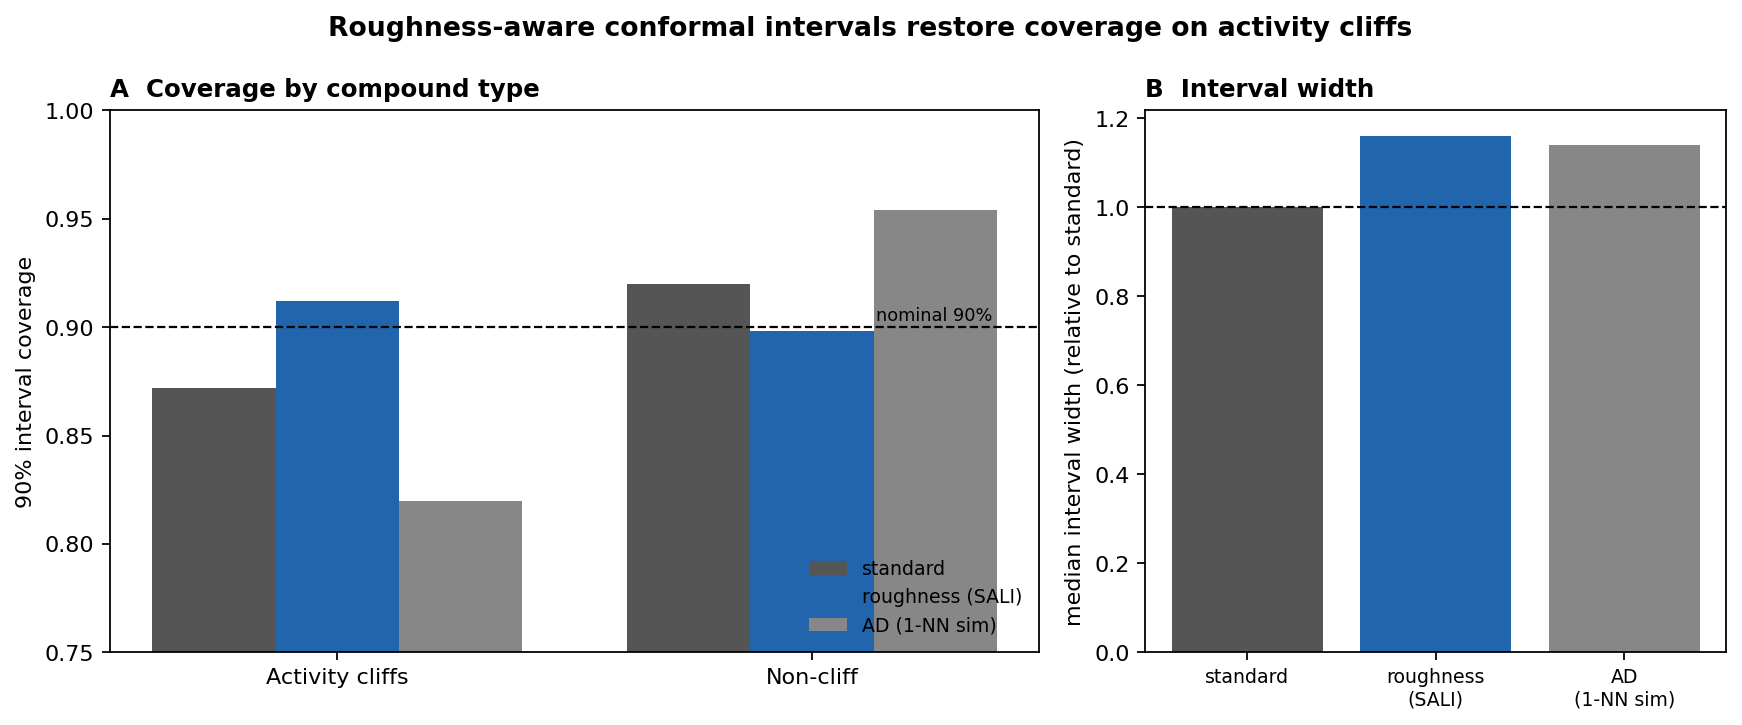
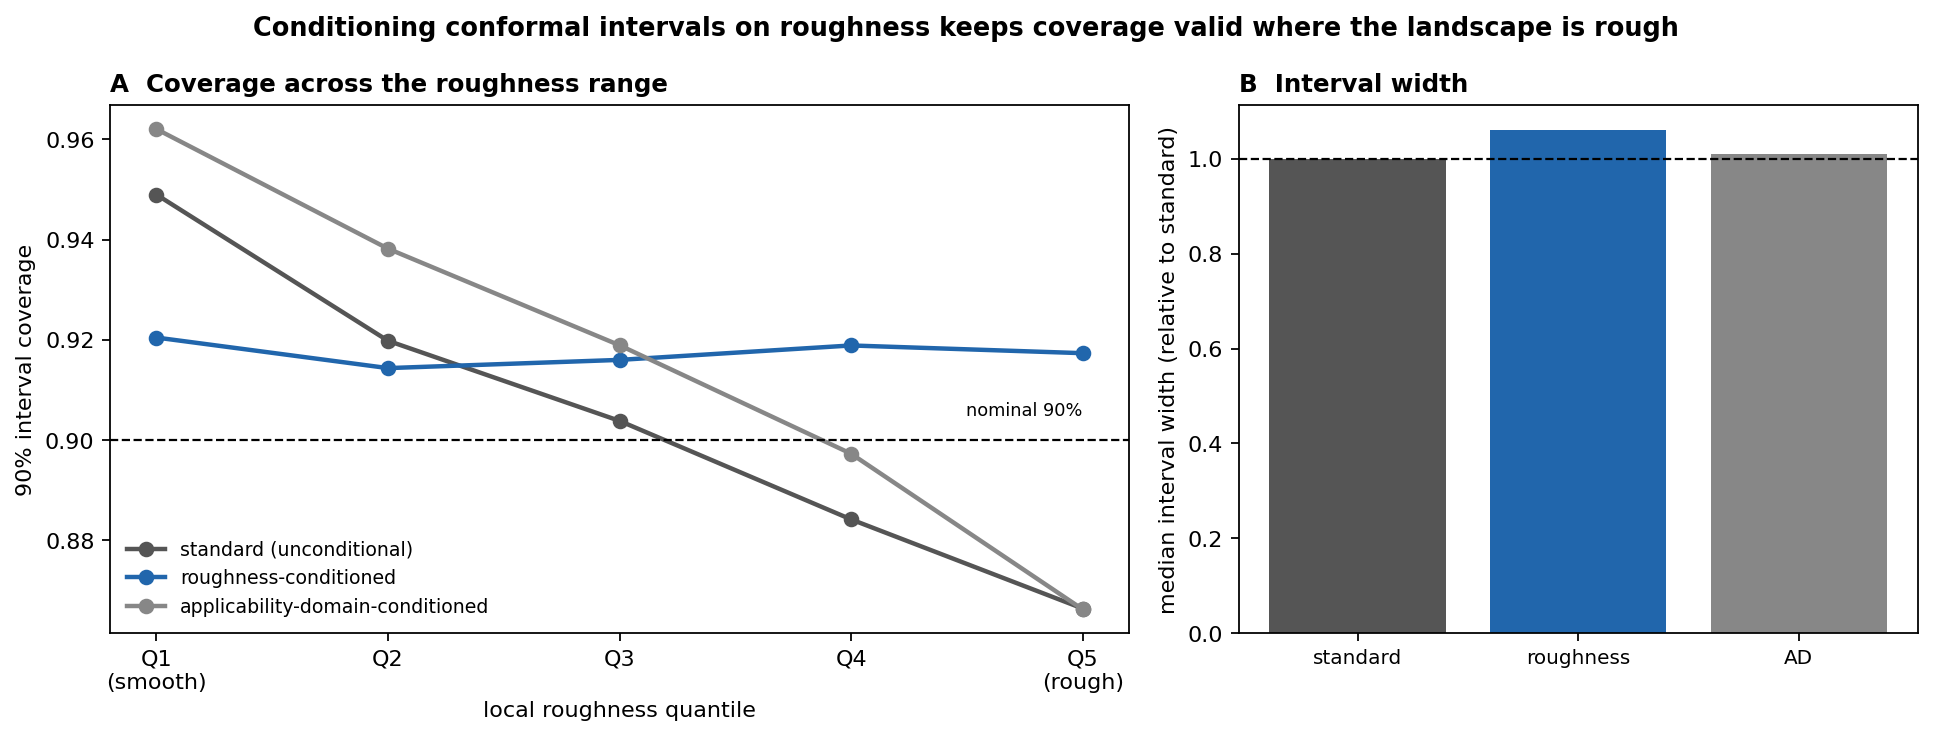
Conformal: cite the inductive/normalized/Mondrian line, add roughness-conditioned coverage curve; reproducibility package
Manuscript / conformal section:
- Reframe to 'roughness is the right per-compound variable to condition on,' not
  'we normalize conformal intervals.' Cite Papadopoulos (inductive + normalized
  nonconformity) and Bostrom & Johansson (Mondrian conformal regressors).
- Reorder to lead with the thesis-confirming number: AD conditioning moves coverage
  the wrong way (cliffs to 82.0%); standard under-coverage is now the setup.
- Add a roughness-conditioned coverage curve (Figure 6A): standard coverage declines
  with roughness (0.95 -> 0.87), roughness-Mondrian holds it flat within ~2 pts of
  nominal across all quintiles, AD-Mondrian declines further. Shows the fix
  generalizes beyond the binary cliff subset and delivers the Mondrian idea.
- conformal.py now computes standard / locally-weighted / Mondrian variants and the
  coverage curve (conformal_results.csv, conformal_curve.csv, Figure 6).

Style pass: documentclass letterpaper (US Letter, explicit); abstract numbers checked
against results; new references in ACS format; no em-dashes.

Reproducibility (reviewer-grade): pinned requirements.txt + environment.yml, a single
reproduce.sh entry point, one script per figure, fixed the README robustness command
(per-metric, not 'all'). Data Availability cites a v1.0.0 Zenodo snapshot (DOI
placeholder) and reproduce.sh; CITATION.cff versioned to 1.0.0.

diff --git a/src/conformal.py b/src/conformal.py
@@ -1,20 +1,24 @@
 """
-conformal.py -- roughness-aware (cliff-aware) conformal prediction intervals.
+conformal.py -- roughness-conditioned conformal prediction intervals.
 
-Split-conformal regression on the held-out per-compound residuals. For each target
-the test compounds are split 50/50 into a calibration and an evaluation set; 90%
-prediction intervals are built three ways and scored for marginal, activity-cliff,
-and non-cliff coverage, plus interval width:
+The question is not how to normalize a conformal predictor but which per-compound
+variable to condition it on. Split-conformal regression gives a marginal coverage
+guarantee; locally-weighted (normalized) and Mondrian variants make coverage
+conditional on a per-compound difficulty estimate but leave the choice of estimate
+open. We show the activity-free roughness (the pairwise-SALI density) is that estimate.
 
-  standard          nonconformity = |residual|              -> constant-width intervals
-  roughness (SALI)  nonconformity = |residual| / sigma(x)   -> sigma = activity-free SALI density
-  AD (1 - NN sim)   nonconformity = |residual| / sigma(x)   -> sigma = applicability-domain risk
-
-Both sigma choices are activity-free, so the predictor is deployable before assay.
-Averaged over 50 random calibration/evaluation splits and reported as the median
-across the 30 targets. Reads results/all_per_compound.csv (rf_err = |pred - y| plus
-the roughness / AD columns); writes results/conformal_results.csv and
-paper/figures/figure6_conformal.png.
+For each target the test compounds are split 50/50 into calibration and evaluation,
+and 90% intervals are built five ways from the held-out residuals:
+  standard        constant width (global conformal quantile)
+  rough-norm      locally-weighted: width scaled by sigma = SALI density
+  AD-norm         locally-weighted: width scaled by sigma = applicability-domain risk
+  rough-Mondrian  stratify calibration into SALI-density quintiles, calibrate within
+  AD-Mondrian     stratify calibration into applicability-domain quintiles, calibrate within
+Both conditioning variables are activity-free (available before assay). We report
+marginal, activity-cliff, and non-cliff coverage, interval width, and coverage as a
+function of roughness quantile, averaged over 50 splits and aggregated as the median
+across the 30 targets. Reads results/all_per_compound.csv; writes
+results/conformal_results.csv, results/conformal_curve.csv, paper/figures/figure6_conformal.png.
 """
 import os, sys
 sys.path.insert(0, os.path.dirname(os.path.abspath(__file__)))
@@ -22,98 +26,114 @@ from config import RESULTS_DIR, FIGURES_DIR
 import numpy as np, pandas as pd
 import matplotlib; matplotlib.use("Agg"); import matplotlib.pyplot as plt
 
-ALPHA = 0.10   # 90% prediction intervals
+ALPHA = 0.10      # 90% intervals
 REPS  = 50
+NB    = 5         # roughness/AD strata and curve quantiles
 df = pd.read_csv(os.path.join(RESULTS_DIR, "all_per_compound.csv"))
+CURVE_METHODS = ["standard", "rough-Mondrian", "AD-Mondrian"]
 
-METHODS = [("standard", None, 1),
-           ("roughness (SALI)", "sali_mean", 1),
-           ("AD (1-NN sim)", "nn_sim", -1)]
+def cq(scores, alpha):
+    s = np.sort(scores); n = len(s)
+    if n == 0: return np.inf
+    k = min(int(np.ceil((n + 1) * (1 - alpha))), n)
+    return s[k - 1]
 
-def conformal_q(scores, alpha):
-    n = len(scores); k = min(int(np.ceil((n + 1) * (1 - alpha))), n)
-    return np.sort(scores)[k - 1]
+def cleanv(g, col, sign):
+    v = sign * g[col].values.astype(float)
+    return np.where(np.isfinite(v), v, np.nanmedian(v))
 
-def sigma_for(g, col, sign):
-    """Per-compound nonconformity scale (>0). sign flips AD so higher = riskier."""
-    if col is None:
-        return np.ones(len(g))
-    s = sign * g[col].values.astype(float)
-    s = np.where(np.isfinite(s), s, np.nanmedian(s))
-    s = s - np.nanmin(s)
-    return s + 0.1 * (np.nanmedian(s) + 1e-9)   # floor keeps widths well-defined
+def inner_quantile_bins(v_cal, v_pts, nb):
+    thr = np.quantile(v_cal, np.linspace(0, 1, nb + 1)[1:-1])
+    return np.minimum(np.digitize(v_pts, thr), nb - 1)
 
-def evaluate():
-    rec = {name: [] for name, _, _ in METHODS}
-    for rep in range(REPS):
-        rng = np.random.RandomState(rep)
-        for ds, g in df.groupby("dataset"):
-            g = g.reset_index(drop=True)
-            resid = g["rf_err"].values
-            cliff = g["cliff_mol"].values.astype(bool)
-            idx = rng.permutation(len(g)); h = len(g) // 2
-            cal, ev = idx[:h], idx[h:]
-            if len(cal) < 10 or len(ev) < 10:
-                continue
-            wstd = None
-            for name, col, sign in METHODS:                 # standard is first -> wstd set
-                sig = sigma_for(g, col, sign)
-                q = conformal_q(resid[cal] / sig[cal], ALPHA)
-                hw = q * sig[ev]
-                cov = resid[ev] <= hw
-                w = 2 * hw
-                ce = cliff[ev]
-                if name == "standard":
-                    wstd = w
-                rec[name].append(dict(
-                    dataset=ds,
-                    cov=cov.mean(),
-                    cov_cliff=cov[ce].mean() if ce.sum() >= 5 else np.nan,
-                    cov_noncliff=cov[~ce].mean() if (~ce).sum() >= 5 else np.nan,
-                    relwidth=np.median(w) / np.median(wstd)))
-    std_cliff = pd.DataFrame(rec["standard"]).groupby("dataset")["cov_cliff"].mean()
-    out = []
-    for name, _, _ in METHODS:
-        t = pd.DataFrame(rec[name]).groupby("dataset").mean(numeric_only=True)
-        out.append(dict(
-            method=name,
-            marginal_cov=round(float(t["cov"].median()), 3),
-            cliff_cov=round(float(t["cov_cliff"].median()), 3),
-            noncliff_cov=round(float(t["cov_noncliff"].median()), 3),
-            median_rel_width=round(float(t["relwidth"].median()), 2),
-            frac_targets_cliff_improved=round(float((t["cov_cliff"] > std_cliff).mean()), 2)))
-    return pd.DataFrame(out)
+rows, curve_rows = [], []
+for rep in range(REPS):
+    rng = np.random.RandomState(rep)
+    for ds, g in df.groupby("dataset"):
+        g = g.reset_index(drop=True)
+        resid = g["rf_err"].values
+        cliff = g["cliff_mol"].values.astype(bool)
+        idx = rng.permutation(len(g)); h = len(g) // 2
+        cal, ev = idx[:h], idx[h:]
+        if len(cal) < NB * 8 or len(ev) < NB * 8:
+            continue
+        rough = cleanv(g, "sali_mean", 1)
+        ad = cleanv(g, "nn_sim", -1)
+        ev_rbin = inner_quantile_bins(rough[ev], rough[ev], NB)   # roughness quintile of each eval point
 
-res = evaluate()
-res.to_csv(os.path.join(RESULTS_DIR, "conformal_results.csv"), index=False)
-print(res.to_string(index=False))
+        methods = {}
+        qg = cq(resid[cal], ALPHA)
+        methods["standard"] = (resid[ev] <= qg, np.full(len(ev), 2 * qg))
+        for nm, col, sign in [("rough-norm", "sali_mean", 1), ("AD-norm", "nn_sim", -1)]:
+            s = cleanv(g, col, sign); s = s - np.nanmin(s)
+            sig = s + 0.1 * (np.nanmedian(s) + 1e-9)
+            qn = cq(resid[cal] / sig[cal], ALPHA)
+            methods[nm] = (resid[ev] <= qn * sig[ev], 2 * qn * sig[ev])
+        for nm, var in [("rough-Mondrian", rough), ("AD-Mondrian", ad)]:
+            cb = inner_quantile_bins(var[cal], var[cal], NB)
+            eb = inner_quantile_bins(var[cal], var[ev], NB)
+            qb = {b: cq(resid[cal][cb == b], ALPHA) for b in range(NB)}
+            hw = np.array([qb[b] for b in eb])
+            methods[nm] = (resid[ev] <= hw, 2 * hw)
+
+        wstd = methods["standard"][1]
+        for nm, (cov, w) in methods.items():
+            rows.append(dict(method=nm, dataset=ds, marginal=cov.mean(),
+                cliff=cov[cliff[ev]].mean() if cliff[ev].sum() >= 5 else np.nan,
+                noncliff=cov[~cliff[ev]].mean() if (~cliff[ev]).sum() >= 5 else np.nan,
+                relwidth=np.median(w) / np.median(wstd)))
+            if nm in CURVE_METHODS:
+                for b in range(NB):
+                    mm = ev_rbin == b
+                    if mm.sum() > 0:
+                        curve_rows.append(dict(method=nm, dataset=ds, qbin=b, cov=cov[mm].mean()))
+
+R = pd.DataFrame(rows)
+per = R.groupby(["method", "dataset"]).mean(numeric_only=True).reset_index()
+std_cliff = per[per.method == "standard"].set_index("dataset")["cliff"]
+ORDER = ["standard", "rough-norm", "AD-norm", "rough-Mondrian", "AD-Mondrian"]
+summary = []
+for m in ORDER:
+    t = per[per.method == m].set_index("dataset")
+    summary.append(dict(method=m,
+        marginal_cov=round(float(t["marginal"].median()), 3),
+        cliff_cov=round(float(t["cliff"].median()), 3),
+        noncliff_cov=round(float(t["noncliff"].median()), 3),
+        median_rel_width=round(float(t["relwidth"].median()), 2),
+        frac_targets_cliff_improved=round(float((t["cliff"] > std_cliff).mean()), 2)))
+summary = pd.DataFrame(summary)
+summary.to_csv(os.path.join(RESULTS_DIR, "conformal_results.csv"), index=False)
+print(summary.to_string(index=False))
+
+C = pd.DataFrame(curve_rows).groupby(["method", "qbin"])["cov"].mean().reset_index()
+C.to_csv(os.path.join(RESULTS_DIR, "conformal_curve.csv"), index=False)
 
 # ---- figure ----
-COL = {"standard": "#555555", "roughness (SALI)": "#2166ac", "AD (1-NN sim)": "#878787"}
-methods = res.method.tolist()
-fig, ax = plt.subplots(1, 2, figsize=(11, 4.6), gridspec_kw={"width_ratios": [1.6, 1]})
+COL = {"standard": "#555555", "rough-Mondrian": "#2166ac", "AD-Mondrian": "#878787"}
+LAB = {"standard": "standard (unconditional)", "rough-Mondrian": "roughness-conditioned",
+       "AD-Mondrian": "applicability-domain-conditioned"}
+fig, ax = plt.subplots(1, 2, figsize=(12.2, 4.7), gridspec_kw={"width_ratios": [1.5, 1]})
 
-xg = np.arange(2); w = 0.26
-for i, m in enumerate(methods):
-    r = res[res.method == m].iloc[0]
-    ax[0].bar(xg + (i - 1) * w, [r["cliff_cov"], r["noncliff_cov"]], w, color=COL[m], label=m)
-ax[0].axhline(0.90, ls="--", color="k", lw=1)
-ax[0].text(1.38, 0.903, "nominal 90%", fontsize=8, ha="right")
-ax[0].set_xticks(xg); ax[0].set_xticklabels(["Activity cliffs", "Non-cliff"])
-ax[0].set_ylim(0.75, 1.0); ax[0].set_ylabel("90% interval coverage")
-ax[0].set_title("A  Coverage by compound type", loc="left", weight="bold", fontsize=11)
-ax[0].legend(frameon=False, fontsize=8.5, loc="lower right")
+xq = np.arange(NB)
+for m in CURVE_METHODS:
+    y = [C[(C.method == m) & (C.qbin == b)]["cov"].iloc[0] for b in range(NB)]
+    ax[0].plot(xq, y, "-o", color=COL[m], label=LAB[m], lw=2, ms=6)
+ax[0].axhline(0.90, ls="--", color="k", lw=1); ax[0].text(NB - 1, 0.905, "nominal 90%", fontsize=8, ha="right")
+ax[0].set_xticks(xq); ax[0].set_xticklabels(["Q1\n(smooth)", "Q2", "Q3", "Q4", "Q5\n(rough)"])
+ax[0].set_xlabel("local roughness quantile"); ax[0].set_ylabel("90% interval coverage")
+ax[0].set_title("A  Coverage across the roughness range", loc="left", weight="bold", fontsize=11)
+ax[0].legend(frameon=False, fontsize=8.5, loc="lower left")
 
-ax[1].bar(range(len(methods)), [res[res.method == m].iloc[0]["median_rel_width"] for m in methods],
-          color=[COL[m] for m in methods])
+wm = ["standard", "rough-Mondrian", "AD-Mondrian"]
+ax[1].bar(range(len(wm)), [summary[summary.method == m]["median_rel_width"].iloc[0] for m in wm],
+          color=[COL[m] for m in wm])
 ax[1].axhline(1.0, ls="--", color="k", lw=1)
-ax[1].set_xticks(range(len(methods)))
-ax[1].set_xticklabels(["standard", "roughness\n(SALI)", "AD\n(1-NN sim)"], fontsize=8.5)
+ax[1].set_xticks(range(len(wm))); ax[1].set_xticklabels(["standard", "roughness", "AD"], fontsize=9)
 ax[1].set_ylabel("median interval width (relative to standard)")
 ax[1].set_title("B  Interval width", loc="left", weight="bold", fontsize=11)
 
-fig.suptitle("Roughness-aware conformal intervals restore coverage on activity cliffs",
-             weight="bold", fontsize=12)
+fig.suptitle("Conditioning conformal intervals on roughness keeps coverage valid where the landscape is rough",
+             weight="bold", fontsize=11.5)
 plt.tight_layout()
 plt.savefig(os.path.join(FIGURES_DIR, "figure6_conformal.png"), dpi=160, bbox_inches="tight")
-print("figure6_conformal.png saved")
+print("figure6_conformal.png + conformal_curve.csv saved")

diff --git a/paper/main.tex b/paper/main.tex
@@ -1,4 +1,4 @@
-\documentclass[12pt]{article}
+\documentclass[12pt,letterpaper]{article}
 
 % Minimal package set: each supports content (equations, figures, citations,
 % the data-availability URL); geometry only sets page margins.
@@ -25,7 +25,7 @@
 \vspace{1em}
 
 \begin{center}\textbf{Abstract}\end{center}
-\noindent Machine-learning models of molecular potency fail systematically on activity cliffs, structurally similar molecules with large potency differences, yet give no warning when a prediction lands on one. The reliability tools in common use look the wrong way: applicability-domain and uncertainty methods flag extrapolation into sparse chemical space, but cliffs sit among close analogs, in the dense regions those methods treat as safe. We ask whether the error a model makes on a specific compound can instead be anticipated from the local roughness of the structure--activity landscape, measured from structure alone. On thirty bioactivity benchmarks, activity-free descriptors computable before any assay predict per-compound random-forest error on every target: neighborhood activity dispersion most strongly (median Spearman 0.28), while the pairwise density of the Structure--Activity Landscape Index flags labeled cliffs with a median area under the receiver-operating-characteristic curve of 0.69, and nearest-neighbor similarity, the basis of the applicability domain, points the opposite way. The signal survives control for the applicability domain in partial-correlation and mixed-effects analyses, so it is a distinct axis of reliability, not a proxy for data sparsity. The effects are modest but uniformly consistent, hold across three model classes and distance metrics, and replicate on solubility and lipophilicity benchmarks outside bioactivity. Embedded as the nonconformity scale of a conformal predictor, the descriptor restores 90\% interval coverage on cliffs that standard intervals silently lose. A measure that uses the query's own activity tracks error more strongly (median Spearman 0.65) but is a mechanistic upper bound, not a usable signal, since it needs the very potency being predicted. The result is a model-agnostic, structure-only estimate of where a quantitative structure--activity relationship (QSAR) prediction should and should not be trusted.
+\noindent Machine-learning models of molecular potency fail systematically on activity cliffs, structurally similar molecules with large potency differences, yet give no warning when a prediction lands on one. The reliability tools in common use look the wrong way: applicability-domain and uncertainty methods flag extrapolation into sparse chemical space, but cliffs sit among close analogs, in the dense regions those methods treat as safe. We ask whether the error a model makes on a specific compound can instead be anticipated from the local roughness of the structure--activity landscape, measured from structure alone. On thirty bioactivity benchmarks, activity-free descriptors computable before any assay predict per-compound random-forest error on every target: neighborhood activity dispersion most strongly (median Spearman 0.28), while the pairwise density of the Structure--Activity Landscape Index flags labeled cliffs with a median area under the receiver-operating-characteristic curve of 0.69, and nearest-neighbor similarity, the basis of the applicability domain, points the opposite way. The signal survives control for the applicability domain in partial-correlation and mixed-effects analyses, so it is a distinct axis of reliability, not a proxy for data sparsity. The effects are modest but uniformly consistent, hold across three model classes and distance metrics, and replicate on solubility and lipophilicity benchmarks outside bioactivity. Conditioning a conformal predictor on this roughness, rather than on the applicability domain, holds 90\% interval coverage flat across the roughness range and restores it on activity cliffs, where unconditional intervals silently under-cover. A measure that uses the query's own activity tracks error more strongly (median Spearman 0.65) but is a mechanistic upper bound, not a usable signal, since it needs the very potency being predicted. The result is a model-agnostic, structure-only estimate of where a quantitative structure--activity relationship (QSAR) prediction should and should not be trusted.
 
 \section*{Keywords}
 activity cliffs; QSAR; structure--activity landscape; applicability domain; uncertainty quantification; machine-learning reliability
@@ -96,7 +96,7 @@ The graph model was a Graph Isomorphism Network (GIN\cite{xu2019}) implemented i
 
 The primary analysis quantified, for each target, the Spearman rank correlation between a descriptor and the per-compound random-forest error, then aggregated the 30 coefficients as the median and interquartile range, reporting the fraction of targets with the expected sign and a two-sided Wilcoxon signed-rank test of the coefficients against zero; $p$ values across descriptors were adjusted by the Benjamini--Hochberg false-discovery-rate (FDR) procedure.\cite{benjamini1995} To test whether roughness is distinguishable from the applicability domain, partial Spearman correlations were computed per target by rank-transforming the descriptor, the error, and the control variables (nearest-neighbor similarity and local density), residualizing the descriptor and the error on the controls by ordinary least squares, and correlating the residuals; the resulting coefficients were aggregated as above. As a confound-controlled confirmation, a linear mixed-effects model (statsmodels) regressed within-target standardized error on within-target standardized roughness, with nearest-neighbor similarity, local density, and heavy-atom count as fixed-effect covariates and a per-target random intercept. The ability of a priori descriptors to flag benchmark-labeled cliffs was assessed by the per-target area under the receiver-operating-characteristic curve (AUC), aggregated as the median and range. All correlation and classification analyses were repeated for $k \in \{5, 10, 15, 20, 30\}$ and for the three distance metrics described above to assess robustness. Operational utility was assessed by an enrichment analysis: within each target, compounds were ranked by a risk score (local roughness; the negative nearest-neighbor similarity, representing the applicability domain in its standard orientation; or the random-forest tree variance, representing uncertainty), and the fraction of positives captured within the top $f\%$ was computed and averaged across targets, with positives defined either as top-quartile-error compounds or as labeled activity cliffs.
 
-To test whether the descriptors yield calibrated prediction intervals, we built split-conformal\cite{norinder2014} 90\% intervals from the held-out per-compound residuals. Within each target the test compounds were partitioned at random into equal calibration and evaluation halves; the nonconformity score was the absolute residual $|\hat{y}_i - y_i|$ for standard conformal prediction, or $|\hat{y}_i - y_i| / \sigma(x_i)$ for a normalized variant whose per-compound scale $\sigma$ was taken from an activity-free roughness (the pairwise-SALI density) or, for comparison, from the applicability domain ($1 - s_{\mathrm{NN}}$). The interval half-width is the rank-$\lceil (n+1)(1-\alpha) \rceil$ calibration score times $\sigma(x_i)$, which retains the finite-sample marginal coverage guarantee at $1 - \alpha = 0.9$ for any $\sigma$. We report marginal coverage, coverage restricted to labeled activity cliffs, and interval width, averaged over 50 random calibration/evaluation splits and aggregated as the median across targets.
+To test whether the descriptors translate into calibrated prediction intervals, we built inductive (split) conformal\cite{norinder2014,papadopoulos2002} 90\% intervals from the held-out per-compound residuals, asking not how to normalize a conformal predictor but which per-compound variable it should be conditioned on. Within each target the test compounds were split at random into equal calibration and evaluation halves. We compared an unconditional predictor (nonconformity score $|\hat{y}_i - y_i|$, constant-width intervals) against two standard ways of making coverage conditional on a per-compound difficulty estimate: a locally-weighted (normalized) score $|\hat{y}_i - y_i| / \sigma(x_i)$,\cite{papadopoulos2011} and a Mondrian scheme\cite{bostrom2020} that stratifies the calibration set into quintiles of a conditioning variable and calibrates within each. For both, the conditioning variable was an activity-free roughness (the pairwise-SALI density) or, for comparison, the applicability domain ($1 - s_{\mathrm{NN}}$); every variant retains the finite-sample marginal coverage guarantee at $1 - \alpha = 0.9$. We report marginal, activity-cliff, and non-cliff coverage, interval width, and coverage as a function of local-roughness quantile, averaged over 50 random calibration/evaluation splits and aggregated as the median across targets.
 
 \subsection*{Software and data availability}
 
@@ -200,14 +200,14 @@ We include a graph-convolutional model only to characterize where a standard mes
 
 Finally, we contrasted the per-compound descriptors with a data-set-level description of roughness. The global ROGI index, a single scalar per target, correlated with the fraction of cliff compounds across the 30 benchmarks (Spearman $\rho = 0.60$) but not with the mean random-forest error ($\rho = -0.12$, $p = 0.54$). Two factors plausibly contribute: the benchmarks were curated to be cliff-rich and therefore occupy a narrow band of global roughness (ROGI 0.04--0.11), limiting the variance available to a single scalar, and mean error is additionally governed by data-set size and chemical diversity. Whatever the cause, a global value cannot by construction resolve which compounds within a data set will be mispredicted. The per-compound descriptors developed here address a different and complementary question: not whether a landscape is rough on average, but where on that landscape predictions should be trusted.
 
-\subsection*{Calibrated prediction intervals that cover activity cliffs}
+\subsection*{Roughness is the right per-compound scale for calibrated intervals}
 
-The descriptors are diagnostic, but they can also be built into a predictor that issues honest uncertainty. Split-conformal regression\cite{norinder2014} converts a point prediction into an interval with a coverage guarantee, yet that guarantee is only marginal: a constant-width interval covers the easy majority and quietly under-covers the hard minority. On these benchmarks, standard 90\% split-conformal intervals reached 90.4\% coverage overall but only 87.2\% on labeled activity cliffs, against 92.0\% on non-cliff compounds (Figure~\ref{fig:conformal}). Scaling the nonconformity score by the activity-free SALI density, so that intervals widen where the local landscape is rough, raised cliff coverage to 91.2\%, essentially the nominal level, while marginal coverage was held fixed, and it improved cliff coverage on 26 of the 30 targets; the typical interval widened by 15\% (median), with the extra width concentrated on the high-roughness compounds that need it. Scaling instead by the applicability domain, the conventional difficulty estimate, moved cliff coverage the wrong way, down to 82.0\%, because it spends interval width on sparsely sampled regions while cliffs sit among dense analogs. This is the operational form of the orthogonality result: the activity-free roughness supplies exactly the per-compound scale that makes a conformal predictor cliff-aware, and the applicability domain supplies its opposite. Using the activity-dependent Dirichlet energy as the scale over-covers cliffs, which confirms the exploitable structure is there; the point is that the SALI density captures enough of it without ever seeing the activity.
+A conformal predictor turns a point estimate into an interval with a guaranteed coverage rate, but the guarantee is only marginal, and the per-compound variable chosen to make it conditional decides where the coverage actually lands. The conventional choice, the applicability domain, sends it the wrong way. Used as a locally-weighted nonconformity scale, applicability-domain risk drops 90\% interval coverage on labeled activity cliffs to 82.0\%; used as a Mondrian stratifier it leaves coverage falling steadily with local roughness (Figure~\ref{fig:conformal}A), because cliffs are dense rather than sparse and the applicability domain spends interval width in the wrong place. The problem it fails to fix is real. Standard, unconditional intervals reached 90.4\% marginal coverage, but their coverage declined monotonically with local roughness, from 95\% in the smoothest fifth of compounds to 87\% in the roughest (Figure~\ref{fig:conformal}A), and to 87.2\% on labeled cliffs, silently under-covering exactly the compounds a modeler most needs flagged. Conditioning on the activity-free roughness fixes it. A Mondrian predictor stratified by roughness quantile held coverage flat across the entire roughness range, within two points of nominal (Figure~\ref{fig:conformal}A), lifted cliff coverage to 89.5\%, and improved it on 27 of the 30 targets, at a 6\% median increase in interval width (Figure~\ref{fig:conformal}B); a locally-weighted score driven by the same roughness raised cliff coverage to 91.2\%. The contribution is not the normalization, which is standard machinery, but the identification of the right per-compound scale: local roughness makes conformal coverage valid where the landscape is rough, and the applicability domain, which measures distance to the training data, does not.
 
 \begin{figure}[htbp]
 \centering
 \includegraphics[width=0.92\linewidth]{figure6_conformal.png}
-\caption{Roughness-aware conformal prediction intervals. (A) Empirical coverage of 90\% split-conformal intervals on labeled activity cliffs and on non-cliff compounds, for standard intervals (constant width), intervals scaled by the activity-free SALI density, and intervals scaled by the applicability domain ($1 - $ nearest-neighbor similarity); the dashed line is the nominal level. Standard intervals under-cover cliffs, the roughness scale restores nominal cliff coverage, and the applicability-domain scale degrades it further. (B) Median interval width relative to standard, showing the modest width cost of the adaptive scales. Median over 30 targets and 50 calibration/evaluation splits.}
+\caption{Roughness-conditioned conformal prediction intervals. (A) Empirical coverage of 90\% inductive-conformal intervals as a function of local-roughness quantile (Q1 smoothest to Q5 roughest), for unconditional (standard) intervals, intervals conditioned on the activity-free roughness, and intervals conditioned on the applicability domain (Mondrian stratification; dashed line, nominal level). Standard coverage declines with roughness and applicability-domain conditioning declines further, whereas roughness conditioning holds coverage flat across the range. (B) Median interval width relative to standard. Median over 30 targets and 50 calibration/evaluation splits.}
 \label{fig:conformal}
 \end{figure}
 
@@ -215,17 +215,17 @@ The descriptors are diagnostic, but they can also be built into a predictor that
 
 The error a QSAR model makes on an individual compound is governed substantially by the local roughness of the structure--activity landscape surrounding it, and that roughness can be estimated from chemical structure alone. Across thirty bioactivity benchmarks the relationship was consistent, and it persisted after the applicability domain was controlled, establishing local roughness as a distinct axis of predictability rather than a restatement of distance to the training data. For activity cliffs the two notions are opposed: cliffs concentrate among close structural analogs, the very region in which applicability-domain analysis reports high confidence.
 
-The practical outcome is a per-compound, activity-free reliability estimate. The pairwise-SALI density of a compound's training neighbors flags cliff-prone molecules before any measurement and complements the two reliability signals already in common use, namely distance-based applicability-domain checks (which address extrapolation into sparse chemical space) and ensemble or conformal uncertainty (which address predictive variance), by targeting the dense-region discontinuities that both systematically miss. In a triage setting this distinction is concrete: ranking predictions by roughness preferentially recovers activity cliffs, which ensemble uncertainty flags no better than chance and the applicability domain ranks worse than random; and, used as the nonconformity scale of a conformal predictor, the same descriptor restores the prediction-interval coverage on cliffs that standard intervals silently lose.
+The practical outcome is a per-compound, activity-free reliability estimate. The pairwise-SALI density of a compound's training neighbors flags cliff-prone molecules before any measurement and complements the two reliability signals already in common use, namely distance-based applicability-domain checks (which address extrapolation into sparse chemical space) and ensemble or conformal uncertainty (which address predictive variance), by targeting the dense-region discontinuities that both systematically miss. In a triage setting this distinction is concrete: ranking predictions by roughness preferentially recovers activity cliffs, which ensemble uncertainty flags no better than chance and the applicability domain ranks worse than random; and, used to condition a conformal predictor, the same roughness keeps prediction-interval coverage valid across the roughness range, including on the cliffs where unconditional intervals silently under-cover.
 
 These conclusions are bounded by several limitations. The activity-free effect sizes, although highly consistent across targets, are modest, and the study is confined to bioactivity regression on a single curated benchmark. The graph-convolutional model used to interpret the descriptor-versus-deep-learning gap was not competitive with the descriptor model in absolute terms and was not architecture-optimized, so that comparison is offered only as a supporting observation; and one construct, the local H\"older exponent, did not predict error.
 
-Several directions follow. We found the framework to transfer to physicochemical regression, namely aqueous solubility and lipophilicity (Figure~\ref{fig:crossdomain}), and it should extend further to the quantum-mechanical end points for which large computed data sets exist, where the locality of each property could itself be probed. The conformal demonstration here uses a single activity-free scale at one confidence level; richer nonconformity constructions, per-target calibration, and Mondrian schemes conditioned directly on roughness are natural next steps toward prediction intervals that stay valid on cliffs. Stronger activity-free constructs and prospective validation on active discovery campaigns would, finally, test whether structure-only roughness can guide compound triage in practice.
+Several directions follow. We found the framework to transfer to physicochemical regression, namely aqueous solubility and lipophilicity (Figure~\ref{fig:crossdomain}), and it should extend further to the quantum-mechanical end points for which large computed data sets exist, where the locality of each property could itself be probed. The conformal demonstration here uses one confidence level and a single conditioning variable; per-target and finer-grained calibration, multi-variable conditioning, and sharper difficulty estimates are natural extensions toward prediction intervals that remain valid wherever the landscape is rough. Stronger activity-free constructs and prospective validation on active discovery campaigns would, finally, test whether structure-only roughness can guide compound triage in practice.
 
 \section*{Associated Content}
 
 \subsection*{Data Availability Statement}
 
-The bioactivity benchmark used in this work (30 ChEMBL targets with activity-cliff annotations and fixed train/test splits) is the publicly available MoleculeACE data set.\cite{vantilborg2022} The external physicochemical benchmarks (ESOL aqueous solubility and Lipophilicity) are distributed publicly with MoleculeNet.\cite{delaney2004,wu2018} All analysis code, the derived per-compound descriptor and error tables, and scripts that regenerate every figure and table in this article are openly available in a public repository (\url{https://github.com/krishnatheaverage/qsar-landscape-roughness}). No proprietary or access-restricted data were used.
+The bioactivity benchmark used in this work (30 ChEMBL targets with activity-cliff annotations and fixed train/test splits) is the publicly available MoleculeACE data set.\cite{vantilborg2022} The external physicochemical benchmarks (ESOL aqueous solubility and Lipophilicity) are distributed publicly with MoleculeNet.\cite{delaney2004,wu2018} All analysis code, the derived per-compound descriptor and error tables, and scripts that regenerate every figure and table in this article are openly available in a public repository (\url{https://github.com/krishnatheaverage/qsar-landscape-roughness}), with a single \texttt{reproduce.sh} entry point and a pinned environment. A frozen snapshot of the repository at the version used for this submission (v1.0.0) is archived on Zenodo (DOI: \texttt{10.5281/zenodo.XXXXXXXX}). No proprietary or access-restricted data were used.
 
 \subsection*{Supporting Information}
 
@@ -301,6 +301,12 @@ The author thanks the developers of RDKit and scikit-learn, and the maintainers 
 \bibitem{xu2019} Xu, K.; Hu, W.; Leskovec, J.; Jegelka, S. How Powerful Are Graph Neural Networks? International Conference on Learning Representations (ICLR). 2019.
 
 \bibitem{benjamini1995} Benjamini, Y.; Hochberg, Y. Controlling the False Discovery Rate: A Practical and Powerful Approach to Multiple Testing. \textit{J. R. Stat. Soc. B} \textbf{1995}, \textit{57}, 289--300.
+
+\bibitem{papadopoulos2002} Papadopoulos, H.; Proedrou, K.; Vovk, V.; Gammerman, A. Inductive Confidence Machines for Regression. In \textit{Machine Learning: ECML 2002}; Lecture Notes in Computer Science 2430; Springer: Berlin, 2002; pp 345--356.
+
+\bibitem{papadopoulos2011} Papadopoulos, H.; Haralambous, H. Reliable Prediction Intervals with Regression Neural Networks. \textit{Neural Netw.} \textbf{2011}, \textit{24} (8), 842--851.
+
+\bibitem{bostrom2020} Bostr\"om, H.; Johansson, U. Mondrian Conformal Regressors. In \textit{Proceedings of the Ninth Symposium on Conformal and Probabilistic Prediction and Applications}; Proceedings of Machine Learning Research 128; PMLR, 2020; pp 114--133.
 
 \end{thebibliography}
 

diff --git a/paper/supporting_information.tex b/paper/supporting_information.tex
@@ -1,4 +1,4 @@
-\documentclass[11pt]{article}
+\documentclass[11pt,letterpaper]{article}
 
 \usepackage[margin=1in]{geometry}
 \usepackage{amsmath}                  % math in the GNN section
@@ -114,19 +114,21 @@ Target & $n$ & RF MAE & GNN (fixed-60) & GNN (tuned) & ROGI \\
 
 \section*{S4. Conformal prediction-interval coverage}
 
-90\% split-conformal prediction intervals were built from the held-out per-compound residuals (main-text Methods). For each target the test compounds were split at random into equal calibration and evaluation halves; the nonconformity score was $|\hat{y}_i - y_i|$ (standard) or $|\hat{y}_i - y_i|/\sigma(x_i)$, with $\sigma$ an activity-free roughness (the pairwise-SALI density) or an applicability-domain risk ($1 - s_{\mathrm{NN}}$). Every scale keeps the marginal coverage guarantee; they differ only in how coverage is distributed between activity cliffs and the rest. Table~\ref{tab:conformal} reports the median across the 30 targets over 50 random splits. Standard intervals under-cover cliffs; the activity-free roughness scale restores cliff coverage to the nominal level at a 15\% median width cost and improves cliff coverage on 26 of 30 targets, whereas the applicability-domain scale lowers cliff coverage further.
+90\% inductive-conformal prediction intervals were built from the held-out per-compound residuals (main-text Methods). For each target the test compounds were split at random into equal calibration and evaluation halves. Coverage was made conditional on a per-compound variable in two standard ways: a locally-weighted (normalized) nonconformity score $|\hat{y}_i - y_i|/\sigma(x_i)$, and a Mondrian scheme that stratifies calibration into quintiles of the variable and calibrates within each. The conditioning variable was an activity-free roughness (the pairwise-SALI density) or the applicability domain ($1 - s_{\mathrm{NN}}$). Every variant keeps the marginal coverage guarantee; they differ in where the coverage lands. Table~\ref{tab:conformal} reports the median across the 30 targets over 50 random splits. Conditioning on roughness restores activity-cliff coverage toward the nominal level at a small width cost; conditioning on the applicability domain lowers it. The same pattern holds across the full roughness range, not only on the labeled-cliff subset: standard coverage falls monotonically from 0.95 in the smoothest roughness quintile to 0.87 in the roughest, roughness-Mondrian holds it within two points of nominal across all quintiles, and applicability-domain conditioning declines further (main-text Figure~6A; \texttt{results/conformal\_curve.csv}).
 
 \begin{table}[htbp]
 \centering
-\caption{Median 90\% conformal prediction-interval coverage and relative width across the 30 targets, by nonconformity scaling.}
+\caption{Median 90\% conformal prediction-interval coverage and relative width across the 30 targets, by construction and conditioning variable.}
 \label{tab:conformal}
 \begin{tabular}{l c c c c}
 \hline
-Scaling & Marginal cov. & Cliff cov. & Non-cliff cov. & Median width (rel.) \\
+Construction (conditioning variable) & Marginal & Cliff & Non-cliff & Median width (rel.) \\
 \hline
-Standard (constant width) & 0.904 & 0.872 & 0.920 & 1.00 \\
-Roughness (SALI density) & 0.904 & 0.912 & 0.898 & 1.16 \\
-Applicability domain ($1-s_{\mathrm{NN}}$) & 0.904 & 0.820 & 0.954 & 1.14 \\
+Standard (unconditional) & 0.904 & 0.872 & 0.920 & 1.00 \\
+Locally-weighted (roughness, SALI) & 0.904 & 0.912 & 0.898 & 1.16 \\
+Locally-weighted (applicability domain) & 0.904 & 0.820 & 0.954 & 1.14 \\
+Mondrian (roughness, SALI) & 0.911 & 0.895 & 0.928 & 1.06 \\
+Mondrian (applicability domain) & 0.910 & 0.861 & 0.945 & 1.01 \\
 \hline
 \end{tabular}
 \end{table}

diff --git a/README.md b/README.md
@@ -53,25 +53,33 @@ A CPU-only PyTorch is sufficient for the graph-network experiments.
 
 ## Reproducing the results
 
-Heavy steps cache per-target intermediates to disk, so they can be run incrementally. Logical order:
+**One command** runs the whole pipeline (descriptors → statistics → every figure and table → both PDFs):
+
+```bash
+./reproduce.sh
+```
+
+Heavy steps cache per-target intermediates to disk and skip work already done, so the script is safe to re-run. To run stages individually, in logical order:
 
 ```bash
 python src/build_features.py all        # roughness descriptors + RF error per target -> cache/
 python src/analyze.py                   # -> results/all_per_compound.csv, tableA, tableB
 python src/gnn.py all                   # fixed-schedule GIN errors -> cache_gnn/
 python src/gnn_tuned.py all             # validated/early-stopped GIN errors -> cache_gnn2/
-python src/analyze_gnn.py               # -> gnn_fixed_vs_tuned.csv, gnn figure
-python src/robustness.py all            # k / metric sweep -> robustness caches
-python src/robustness_analyze.py        # -> robustness_summary.csv, robustness figure
+python src/analyze_gnn.py               # -> gnn_fixed_vs_tuned.csv, Figure 5
+python src/robustness.py ecfp4          # k-sweep under ECFP4/Tanimoto  -> cache
+python src/robustness.py ecfp6          # k-sweep under ECFP6/Tanimoto  -> cache
+python src/robustness.py desc           # k-sweep under descriptor/Euclidean -> cache
+python src/robustness_analyze.py        # -> robustness_summary.csv, Figure 3
 python src/model2.py all                # gradient boosting + SVR errors -> cache_models/
 python src/model_agnostic_analyze.py    # -> model_agnostic_results.csv (Table 1)
 python src/cross_domain.py              # ESOL + Lipophilicity -> cross_domain_results.csv
-python src/enrichment.py                # triage/enrichment -> figure
 python src/make_figure1.py              # main three-panel figure (Figure 1)
+python src/enrichment.py                # triage/enrichment (Figure 2)
 python src/make_figure4.py              # cross-domain validation figure (Figure 4)
 python src/toc_graphic.py               # ACS table-of-contents graphic
 python src/make_si_tables.py            # -> results/per_target_correlations.csv + paper/si_tables.tex
-python src/conformal.py                 # cliff-aware conformal intervals -> conformal_results.csv, Figure 6
+python src/conformal.py                 # roughness-conditioned conformal intervals -> conformal_results.csv, Figure 6
 ```
 
 **Paths and configuration.** All input and output locations are defined in `src/config.py` relative to the repository root, so the pipeline runs from a fresh checkout with no path editing. The MoleculeACE benchmark directory is located automatically from the installed package, and `cross_domain.py` downloads the two MoleculeNet CSVs on first run. You can override any location with environment variables (`QSAR_CACHE`, `QSAR_RESULTS`, `QSAR_FIGURES`, `QSAR_DATA`, `MOLECULEACE_DATA`). Cached per-target intermediates are written to `cache/` (gitignored) and regenerated on demand.